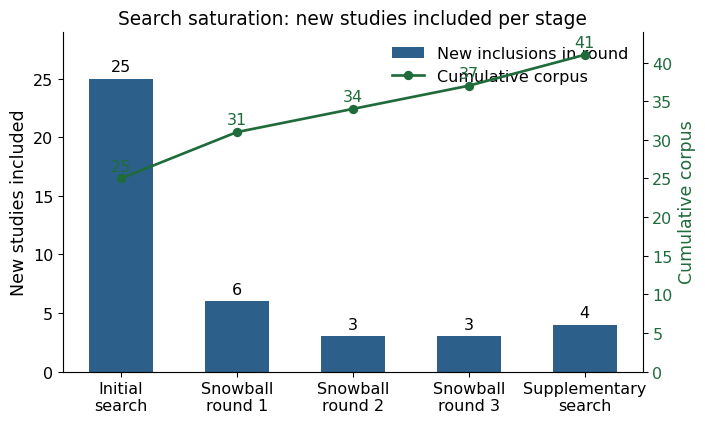
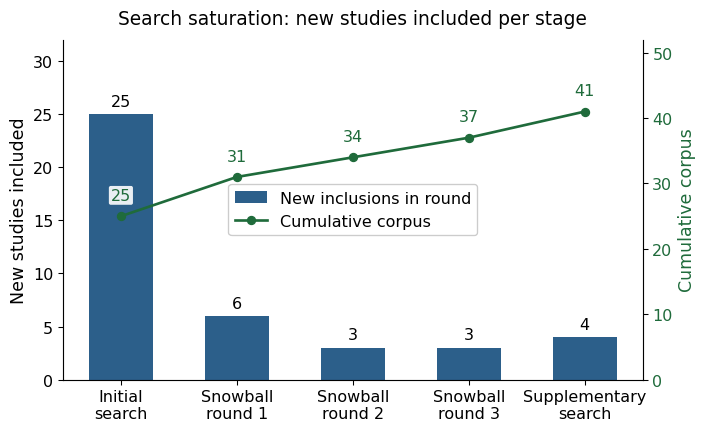
fix(figura): corrige sobreposicao de texto e legenda na figura de saturacao
A legenda colidia com os rotulos do corpus acumulado (41, 37) e o rotulo do
primeiro ponto ficava ilegivel sobre a barra. Correcoes em make_saturation_figure.py:
- legenda movida para o centro (regiao vazia) com caixa branca opaca
- rotulos do corpus acumulado afastados acima dos marcadores
- fundo branco nos rotulos da linha para leitura sobre qualquer elemento
- mais folga no topo dos eixos para o rotulo 41
Regenera snowball_saturation_{pt,en}.{pdf,png} a 96 DPI, fonte >=12pt.

diff --git a/systematic-review/make_saturation_figure.py b/systematic-review/make_saturation_figure.py
@@ -50,29 +50,36 @@ def fig_saturation(lang):
 
     x = list(range(len(rounds)))
     fig, ax = plt.subplots(figsize=(7.8, 4.6))
-    bars = ax.bar(x, included, color=BLUE, width=0.55, label=leg_inc)
+    bars = ax.bar(x, included, color=BLUE, width=0.55, label=leg_inc, zorder=2)
     for b, v in zip(bars, included):
-        ax.text(b.get_x() + b.get_width() / 2, v + 0.4, str(v), ha="center", va="bottom", fontsize=12)
+        ax.text(b.get_x() + b.get_width() / 2, v + 0.5, str(v), ha="center", va="bottom", fontsize=12, zorder=4)
     ax.set_ylabel(ylab_l)
-    ax.set_ylim(0, max(included) + 4)
+    ax.set_ylim(0, max(included) + 7)
     ax.set_xticks(x)
     ax.set_xticklabels(xlabels, fontsize=12)
-    ax.set_title(title)
+    ax.set_title(title, pad=12)
     ax.spines["top"].set_visible(False)
     ax.tick_params(labelsize=12)
 
     ax2 = ax.twinx()
-    ax2.plot(x, cumulative, color=GREEN, marker="o", linewidth=2, label=leg_cum)
+    ax2.plot(x, cumulative, color=GREEN, marker="o", linewidth=2, label=leg_cum, zorder=3)
+    # Cumulative labels sit clearly above each marker (extra room from the higher ylim).
+    label_bg = dict(boxstyle="round,pad=0.12", fc="white", ec="none", alpha=0.9)
     for xi, v in zip(x, cumulative):
-        ax2.text(xi, v + 0.6, str(v), ha="center", va="bottom", fontsize=12, color=GREEN)
+        ax2.annotate(str(v), (xi, v), textcoords="offset points", xytext=(0, 10),
+                     ha="center", va="bottom", fontsize=12, color=GREEN, zorder=5,
+                     bbox=label_bg)
     ax2.set_ylabel(ylab_r, color=GREEN)
-    ax2.set_ylim(0, 44)
+    ax2.set_ylim(0, 52)
     ax2.tick_params(axis="y", labelcolor=GREEN, labelsize=12)
     ax2.spines["top"].set_visible(False)
 
+    # Legend in the open central region, with an opaque white box so no element shows through.
     lines_l, labels_l = ax.get_legend_handles_labels()
     lines_r, labels_r = ax2.get_legend_handles_labels()
-    ax.legend(lines_l + lines_r, labels_l + labels_r, loc="upper right", fontsize=12, frameon=False)
+    leg = ax.legend(lines_l + lines_r, labels_l + labels_r, loc="center", fontsize=12,
+                    frameon=True, framealpha=1.0, facecolor="white", edgecolor="#CCCCCC")
+    leg.set_zorder(6)
 
     for ext in ("pdf", "png"):
         fig.savefig(os.path.join(OUT, f"snowball_saturation_{lang}.{ext}"), dpi=DPI, facecolor="white", bbox_inches="tight")
